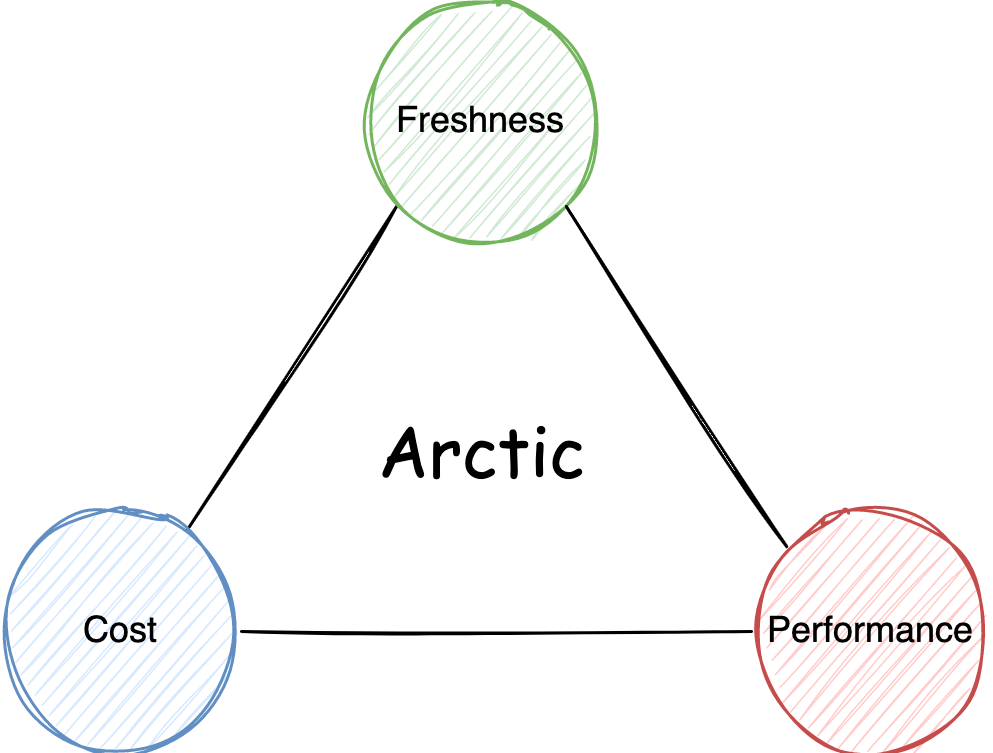
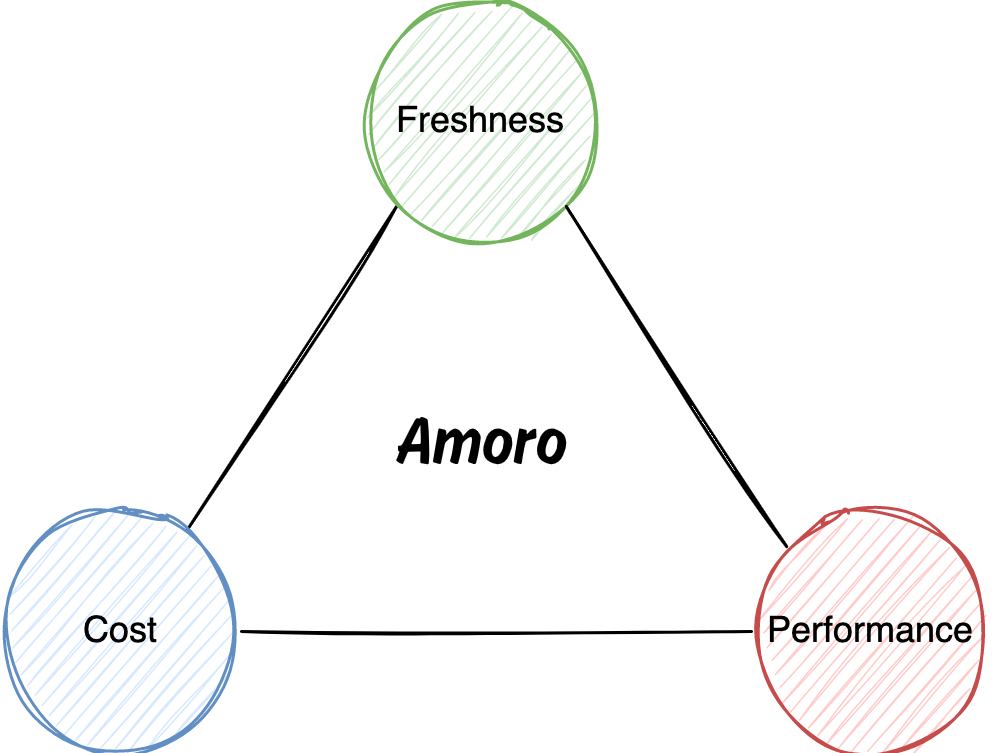
[AMORO-2352] Fix some typo in markdown docs (#2353)
* [AMORO-2352] Fix some typo in markdown docs

* change some contents

* Update using-tables.md

* change ARCTIC_HOME to AMORO_HOME

* change 'computing engines' to 'compute engines'

---------

Changed region(s): [[0.3746, 0.5498, 0.5932, 0.6414]]

diff --git a/ams/dashboard/src/views/introduce/index.vue b/ams/dashboard/src/views/introduce/index.vue
@@ -52,7 +52,7 @@ export default defineComponent({
       },
       {
         title: 'Catalog Service',
-        desc: 'Provide an unified catalog service for all computing engines, which can also used with existing metadata store service such as Hive Metastore and AWS Glue.',
+        desc: 'Provide an unified catalog service for all compute engines, which can also used with existing metadata store service such as Hive Metastore and AWS Glue.',
         icon: CatalogService
       },
       {

diff --git a/docs/admin-guides/deployment.md b/docs/admin-guides/deployment.md
@@ -85,8 +85,8 @@ If you want to use AMS in a production environment, it is recommended to modify 
 ### Configure the service address
 
 - The `ams.server-bind-host` configuration specifies the host to which AMS is bound. The default value, `0.0.0.0,` indicates binding to all network interfaces.
-- The `ams.server-expose-host` configuration specifies the host exposed by AMS that the computing engines and optimizers used to connect to AMS. You can configure a specific IP address on the machine, or an IP prefix. When AMS starts up, it will find the first host that matches this prefix.
-- The `ams.thrift-server.table-service.bind-port` configuration specifies the binding port of the Thrift Server that provides the table service. The computing engines access AMS through this port, and the default value is 1260.
+- The `ams.server-expose-host` configuration specifies the host exposed by AMS that the compute engines and optimizers used to connect to AMS. You can configure a specific IP address on the machine, or an IP prefix. When AMS starts up, it will find the first host that matches this prefix.
+- The `ams.thrift-server.table-service.bind-port` configuration specifies the binding port of the Thrift Server that provides the table service. The compute engines access AMS through this port, and the default value is 1260.
 - The `ams.thrift-server.optimizing-service.bind-port` configuration specifies the binding port of the Thrift Server that provides the optimizing service. The optimizers access AMS through this port, and the default value is 1261.
 - The `ams.http-server.bind-port` configuration specifies the port to which the HTTP service is bound. The Dashboard and Open API are bound to this port, and the default value is 1630.
 
@@ -243,13 +243,13 @@ bin/ams.sh restart/stop
 
 ### Upgrade system databases
 
-You can find all the upgrade SQL scripts under `{ARCTIC_HOME}/conf/mysql/` with name pattern `upgrade-a.b.c-to-x.y.z.sql`.
+You can find all the upgrade SQL scripts under `{AMORO_HOME}/conf/mysql/` with name pattern `upgrade-a.b.c-to-x.y.z.sql`.
 Execute the upgrade SQL scripts one by one to your system database based on your starting and target versions.
 
 ### Replace all libs and plugins
 
-Replace all contents in the original `{ARCTIC_HOME}/lib` directory with the contents in the lib directory of the new installation package.
-Replace all contents in the original `{ARCTIC_HOME}/plugin` directory with the contents in the plugin directory of the new installation package.
+Replace all contents in the original `{AMORO_HOME}/lib` directory with the contents in the lib directory of the new installation package.
+Replace all contents in the original `{AMORO_HOME}/plugin` directory with the contents in the plugin directory of the new installation package.
 
 {{< hint info >}}
 Backup the old content before replacing it, so that you can roll back the upgrade operation if necessary.
@@ -257,7 +257,7 @@ Backup the old content before replacing it, so that you can roll back the upgrad
 
 ### Configure new parameters
 
-The old configuration file `{ARCTIC_HOME}/conf/config.yaml` is usually compatible with the new version, but the new version may introduce new parameters. Try to compare the configuration files of the old and new versions, and reconfigure the parameters if necessary.
+The old configuration file `{AMORO_HOME}/conf/config.yaml` is usually compatible with the new version, but the new version may introduce new parameters. Try to compare the configuration files of the old and new versions, and reconfigure the parameters if necessary.
 
 ### Restart AMS
 

diff --git a/README.md b/README.md
@@ -48,7 +48,7 @@ Here is the architecture diagram of Amoro:
 </p>
 
 * AMS: Amoro Management Service provides Lakehouse management features, like self-optimizing, data expiration, etc.
-  It also provides a unified catalog service for all computing engines, which can also be combined with existing metadata services.
+  It also provides a unified catalog service for all compute engines, which can also be combined with existing metadata services.
 * Plugins: Amoro provides a wide selection of external plugins to meet different scenarios.
     * Optimizers: The self-optimizing execution engine plugin asynchronously performs merging, sorting, deduplication,
       layout optimization, and other operations on all type table format tables.
@@ -87,7 +87,7 @@ Amoro support multiple processing engines for Mixed format as below:
 
 - Self-optimizing - Continuously optimizing tables, including compacting small files, change files, regularly delete expired files to keep high query performance and reducing storage costs.
 - Multiple Formats - Support different table formats such as Iceberg, Mixed-Iceberg and Mixed-Hive to meet different scenario requirements and provide them with unified management capabilities.
-- Catalog Service - Provide a unified catalog service for all computing engines, which can also used with existing metadata store service such as Hive Metastore and AWS Glue.
+- Catalog Service - Provide a unified catalog service for all compute engines, which can also used with existing metadata store service such as Hive Metastore and AWS Glue.
 - Rich Plugins - Provide various plugins to integrate with other systems, like continuously optimizing with Flink and data analysis with Spark and Kyuubi.
 - Management Tools - Provide a variety of management tools, including WEB UI and standard SQL command line, to help you get started faster and integrate with other systems more easily.
 - Infrastructure Independent - Can be easily deployed and used in private environments, cloud environments, hybrid cloud environments, and multi-cloud environments.

diff --git a/docs/admin-guides/managing-optimizers.md b/docs/admin-guides/managing-optimizers.md
@@ -17,7 +17,7 @@ The optimizer is the execution unit for performing self-optimizing tasks on a ta
 * Optimizer: The specific unit that performs optimizing tasks, usually with multiple concurrent units.
 
 ## Optimizer container
-Before using self-optimizing, you need to configure the container information in the configuration file. Optimizer container represents a specific set of runtime environment configuration, and the scheduling scheme of optimizer in that runtime environment. container includes three types: flink, local, and external.
+Before using self-optimizing, you need to configure the container information in the configuration file. Optimizer container represents a specific set of runtime environment configuration, and the scheduling scheme of optimizer in that runtime environment. The container includes three types: flink, local, and external.
 
 ### Local container
 Local container is a way to start Optimizer by local process and supports multi-threaded execution of Optimizer tasks. It is recommended to be used only in demo or local deployment scenarios. If the environment variable for jdk is not configured, the user can configure java_home to point to the jdk root directory. If already configured, this configuration item can be ignored.
@@ -171,7 +171,7 @@ You can submit optimizer in your own Flink task development platform or local Fl
  -Dtaskmanager.memory.network.max=32mb \
  -Dtaskmanager.memory.network.min=32mb \
  -c com.netease.arctic.optimizer.flink.FlinkOptimizer \
- ${ARCTIC_HOME}/plugin/optimizer/flink/optimizer-job.jar \
+ ${AMORO_HOME}/plugin/optimizer/flink/optimizer-job.jar \
  -a 127.0.0.1:1261 \
  -g flinkGroup \
  -p 1 \

diff --git a/docs/admin-guides/managing-catalogs.md b/docs/admin-guides/managing-catalogs.md
@@ -51,8 +51,8 @@ You can create a catalog in the AMS frontend:
 
 ### Configure properties
 Common properties include:
-- warehouse: Warehouse **must be configured**, as it determines where our database and table files should be placed
-- catalog-impl: when the metastore is **Custom**, an additional catalog-impl must be defined, and the user must put the jar package for the custom catalog implementation into the **{ARCTIC_HOME}/lib** directory, **and the service must be restarted to take effect**
+- warehouse: Warehouse **must be configured** for ams/hadoop/glue catalog, as it determines where our database and table files should be placed
+- catalog-impl: when the metastore is **Custom**, an additional catalog-impl must be defined, and the user must put the jar package for the custom catalog implementation into the **{AMORO_HOME}/lib** directory, **and the service must be restarted to take effect**
 - table-filter: Configure a regular expression to filter tables in the catalog. The matching will be done in the format of `database.table`. For example, if it is set to `(A\.a)|(B\.b)`, it will ignore all tables except for table `a` in database `A` and table `b` in database `B`
 
 ### Configure table properties

diff --git a/docs/user-guides/using-tables.md b/docs/user-guides/using-tables.md
@@ -122,11 +122,11 @@ For more information, please refer to [Self-optimizing quota](../self-optimizing
 ### Adjust optimizing parameters
 
 You can manually set parameters such as execution interval, task size, and execution timeout for different types of Optimize. 
-For example, to set the execution interval for Self-optimize of the major type, you can do the following:
+For example, to set the execution interval for minor optimizing, you can do the following:
 
 ```sql
 ALTER TABLE test_db.test_log_store set tblproperties (
-    'self-optimizing.major.trigger.interval' = '3600000');
+    'self-optimizing.minor.trigger.interval' = '3600000');
 ```
 
 More optimization parameter adjustment refer to [Self-optimizing configuration](../configurations/#self-optimizing-configurations)。

diff --git a/docs/concepts/catalogs.md b/docs/concepts/catalogs.md
@@ -60,6 +60,6 @@ AMS will focus on two goals to enhance the value of the metadata center in the f
 - Expand data sources: In addition to data lakes, message queues, databases, and data warehouses can all be managed as objects in the catalog.
 Through metadata center and SQL-based federated computing of the computing engine, AMS will provide infrastructure solutions for data platforms
 such as DataOps and DataFabric
-- Automatic catalog detection: In computing engines like Spark and Flink, it is possible to automatically detect the creation and changes of a
+- Automatic catalog detection: In compute engines like Spark and Flink, it is possible to automatically detect the creation and changes of a
 catalog, enabling a one-time configuration for permanent scalability.
   

diff --git a/docs/_index.md b/docs/_index.md
@@ -17,7 +17,7 @@ The architecture of Amoro is as follows:
 The core components of Amoro include:
 
 * AMS: Amoro Management Service provides Lakehouse management features, like self-optimizing, data expiration, etc.
-  It also provides a unified catalog service for all computing engines, which can also be combined with existing metadata services.
+  It also provides a unified catalog service for all compute engines, which can also be combined with existing metadata services.
 * Plugins: Amoro provides a wide selection of external plugins to meet different scenarios.
     * Optimizers: The self-optimizing execution engine plugin asynchronously performs merging, sorting, deduplication,
       layout optimization, and other operations on all type table format tables.

diff --git a/docs/concepts/table-watermark.md b/docs/concepts/table-watermark.md
@@ -58,4 +58,4 @@ greater flexibility:
 SHOW TBLPROPERTIES test_db.test_log_store ('watermark.base');
 ```
 
-You can learn about how to use Watermark in detail by referring to [Managing tables](../using-tables/).
+You can learn about how to use Watermark in detail by referring to [Using tables](../using-tables/).
